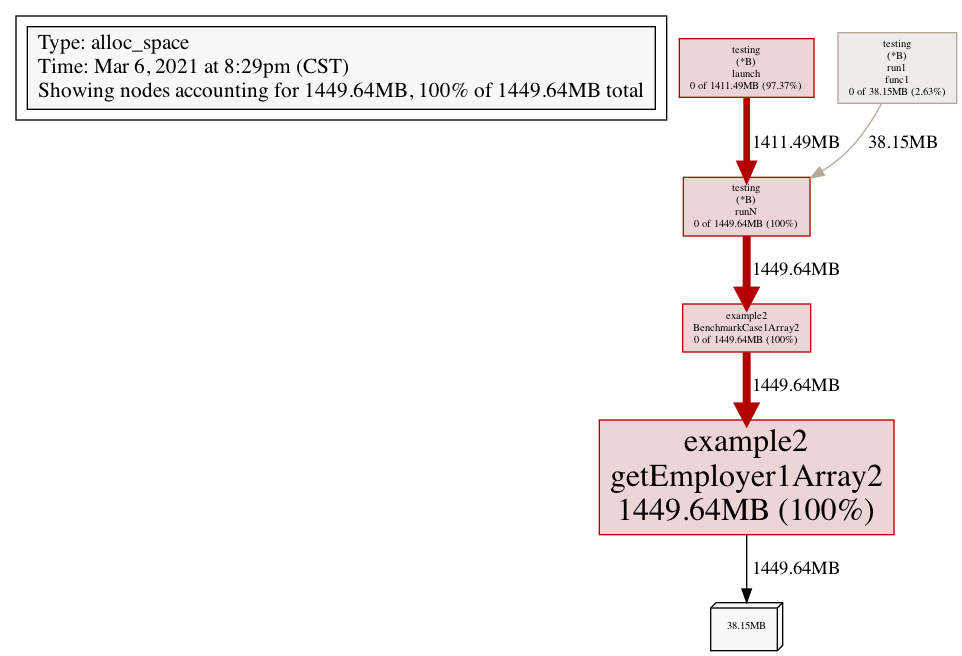
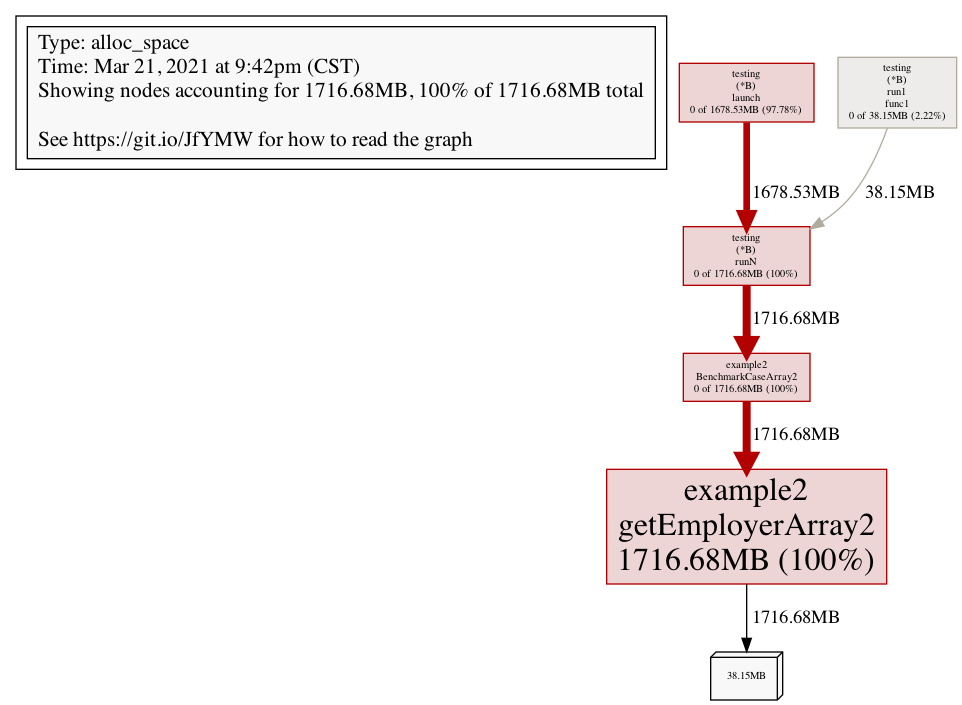
update example2

Changed region(s): [[0.0, 0.0, 0.9979, 0.8841], [0.7173, 0.8841, 0.8108, 1.0], [0.9667, 0.0305, 0.9979, 0.061]]

diff --git a/pkg/example2/case.go b/pkg/example2/case.go
@@ -1,16 +1,16 @@
 package example2
 
-type employer1 struct {
+type employer struct {
 	Name  string
 	Age   int
 	Title string
 }
 
 //go:noinline
-func getEmployer1Array() [1e5]employer1 {
-	var emps [1e5]employer1
+func getEmployerArray1() [1e5]employer {
+	var emps [1e5]employer
 	for i := 0; i < 1e5; i++ {
-		emps[i] = employer1{
+		emps[i] = employer{
 			Name:  "adam",
 			Age:   23,
 			Title: "ceo",
@@ -20,10 +20,10 @@ func getEmployer1Array() [1e5]employer1 {
 }
 
 //go:noinline
-func getEmployer1Array2() [1e6]employer1 {
-	var emps [1e6]employer1 //moved to heap: emps
+func getEmployerArray2() [1e6]employer {
+	var emps [1e6]employer //moved to heap: emps
 	for i := 0; i < 1e6; i++ {
-		emps[i] = employer1{
+		emps[i] = employer{
 			Name:  "adam",
 			Age:   23,
 			Title: "ceo",

diff --git a/pkg/example2/case_test.go b/pkg/example2/case_test.go
@@ -5,14 +5,14 @@ import (
 )
 
 // go test -bench=.
-func BenchmarkCase1Array(b *testing.B) {
+func BenchmarkCaseArray1(b *testing.B) {
 	for n := 0; n < b.N; n++ {
-		getEmployer1Array()
+		getEmployerArray1()
 	}
 }
 
-func BenchmarkCase1Array2(b *testing.B) {
+func BenchmarkCaseArray2(b *testing.B) {
 	for n := 0; n < b.N; n++ {
-		getEmployer1Array2()
+		getEmployerArray2()
 	}
 }

diff --git a/pkg/example2/README.md b/pkg/example2/README.md
@@ -10,19 +10,19 @@ smiletrl@Rulins-MacBook-Pro example2 % go build -gcflags="-m -l" case1.go
 ./case1.go:24:6: moved to heap: emps
 ```
 
-We see only line 24 `moved to heap: emps` from compiler's output, but line 11 `var emps [1e5]employer1` is not moved to heap, even though they are both local array variables. This comes to Golang's rule of `Also, if a local variable is very large, it might make more sense to store it on the heap rather than the stack.` from [FAQ](https://golang.org/doc/faq#stack_or_heap).
+We see only line 24 `moved to heap: emps` from compiler's output, but line 11 `var emps [1e5]employer` is not moved to heap, even though they are both local array variables. This comes to Golang's rule of `Also, if a local variable is very large, it might make more sense to store it on the heap rather than the stack.` from [FAQ](https://golang.org/doc/faq#stack_or_heap).
 
-But how `large` is large? In this example, `var emps [1e5]employer1` size is `4MB = (40 Byte * 1e5)`, and `var emps [1e6]employer1` size is `40MB = (40 Byte * 1e6)`. So `40MB` is large enough for Golang to move this variable to heap instead of stack. For the exact size, check [this article](https://smiletrl.github.io/post/golang-local-large-heap-allocated-variable/).
+But how `large` is large? In this example, `var emps [1e5]employer` size is `4MB = (40 Byte * 1e5)`, and `var emps [1e6]employer` size is `40MB = (40 Byte * 1e6)`. So `40MB` is large enough for Golang to move this variable to heap instead of stack. For the exact size, check [this article](https://smiletrl.github.io/post/golang-local-large-heap-allocated-variable/).
 
 ## How to get the variable memory size?
 
-In this example, we see the variable memory size matters for whether it will be allocated to heap. This example provides a few options to get variable size.
+In this example, we see the variable memory size matters for whether it will be allocated to heap. This example provides three options to get variable size.
 
-To get this variable `var emps [1e5]employer1` size, each struct `employer` contains 2 string fields, and one int field. In my machine (mac amd64), each string is `16 Byte`, and int is `8 Byte`, which gives the total size of one `employer` struct to be 40 Byte.
+1. To get this variable `var emps [1e5]employer` size, each struct `employer` contains 2 string fields, and one int field. In my machine (mac amd64), each string is `16 Byte`, and int is `8 Byte`, which gives the total size of one `employer` struct to be 40 Byte. This could be retrieved from [unsafe.Sizeof](https://golang.org/pkg/unsafe/#Sizeof).
 
 One thing is this size `16 Byte` for string is simply the [`string header struct`](https://golang.org/pkg/reflect/#StringHeader) size, which is a result of [unsafe.Sizeof](https://golang.org/pkg/unsafe/#Sizeof). See `The size does not include any memory possibly referenced by x` from `Sizeof` doc. `String` in golang is actually a reference type (`Data uintptr` from string header struct is a pointer to the real byte data).
 
-Another option to get the size of a variable is to use the built in benchmark tool
+2. Another option to get the size of a variable is to use the built in benchmark tool
 
 Run below command:
 
@@ -31,22 +31,22 @@ smiletrl@Rulins-MacBook-Pro example2 % go test -bench=. -benchmem
 goos: darwin
 goarch: amd64
 pkg: github.com/smiletrl/golang_escape/pkg/example2
-BenchmarkCase1Array-16     	    1280	    952224 ns/op	       0 B/op	       0 allocs/op
-BenchmarkCase1Array2-16    	      25	  49134560 ns/op	40001616 B/op	       1 allocs/op
+BenchmarkCaseArray1-16     	    1280	    952224 ns/op	       0 B/op	       0 allocs/op
+BenchmarkCaseArray2-16    	      25	  49134560 ns/op	40001616 B/op	       1 allocs/op
 ```
 
-See [Benchmark result](https://golang.org/pkg/testing/#BenchmarkResult) for meaning. We are interested at `40001616 B/op`, which is returned from [AllocedBytesPerOp](https://golang.org/pkg/testing/#BenchmarkResult.AllocedBytesPerOp). In this case, we see the size of `[1e6]employer1` is `40001616 Byte ~= 40 MB`. `var emps [1e5]employer1` is not allocated at heap, so its result is empty.
+See [Benchmark result](https://golang.org/pkg/testing/#BenchmarkResult) for meaning. We are interested at `40001616 B/op`, which is returned from [AllocedBytesPerOp](https://golang.org/pkg/testing/#BenchmarkResult.AllocedBytesPerOp). In this case, we see the size of `[1e6]employer` is `40001616 Byte ~= 40 MB`. `var emps [1e5]employer` is not allocated at heap, so its result is empty.
 
-To add [pprof profile](https://golang.org/pkg/runtime/pprof/) support, run command
+3. To add [pprof profile](https://golang.org/pkg/runtime/pprof/) support, run command
 
 ```
-smiletrl@Rulins-MacBook-Pro example2 % go test -bench BenchmarkCase1Array2 -benchmem -memprofile memprofile.out
+smiletrl@Rulins-MacBook-Pro example2 % go test -bench BenchmarkCaseArray2 -benchmem -memprofile memprofile.out
 smiletrl@Rulins-MacBook-Pro example2 % go tool pprof memprofile.out
 ```
 
-To avoid confusion, the above test command only runs `BenchmarkCase1Array2`.
+To avoid confusion, the above test command only runs `BenchmarkCaseArray2`.
 
-This profile `memprofile.out` shows memory allocated from `getEmployer1Array2()` to heap, i.e, this variable `var emps [1e6]employer1`, and then we may [play with this output profile](https://blog.golang.org/pprof). This repository includes one png format of this memory profile as `profile001.png`. It shows 38.15 MB. Note, [pprof uses MiB](https://github.com/google/pprof/issues/136) as measurement. To do the conversion, we get `38.15MiB ~= 40 MB`, which is consistent with the above `40MB` result.
+This profile `memprofile.out` shows memory allocated from `getEmployerArray2()` to heap, i.e, this variable `var emps [1e6]employer`, and then we may [play with this output profile](https://blog.golang.org/pprof). This repository includes one png format of this memory profile as `profile001.png`. It shows 38.15 MiB. Note, [pprof uses MiB](https://github.com/google/pprof/issues/136) as measurement. To do the conversion, we get `38.15MiB ~= 40 MB`, which is consistent with the above `40MB` result.
 
 ## Conclusion
 
